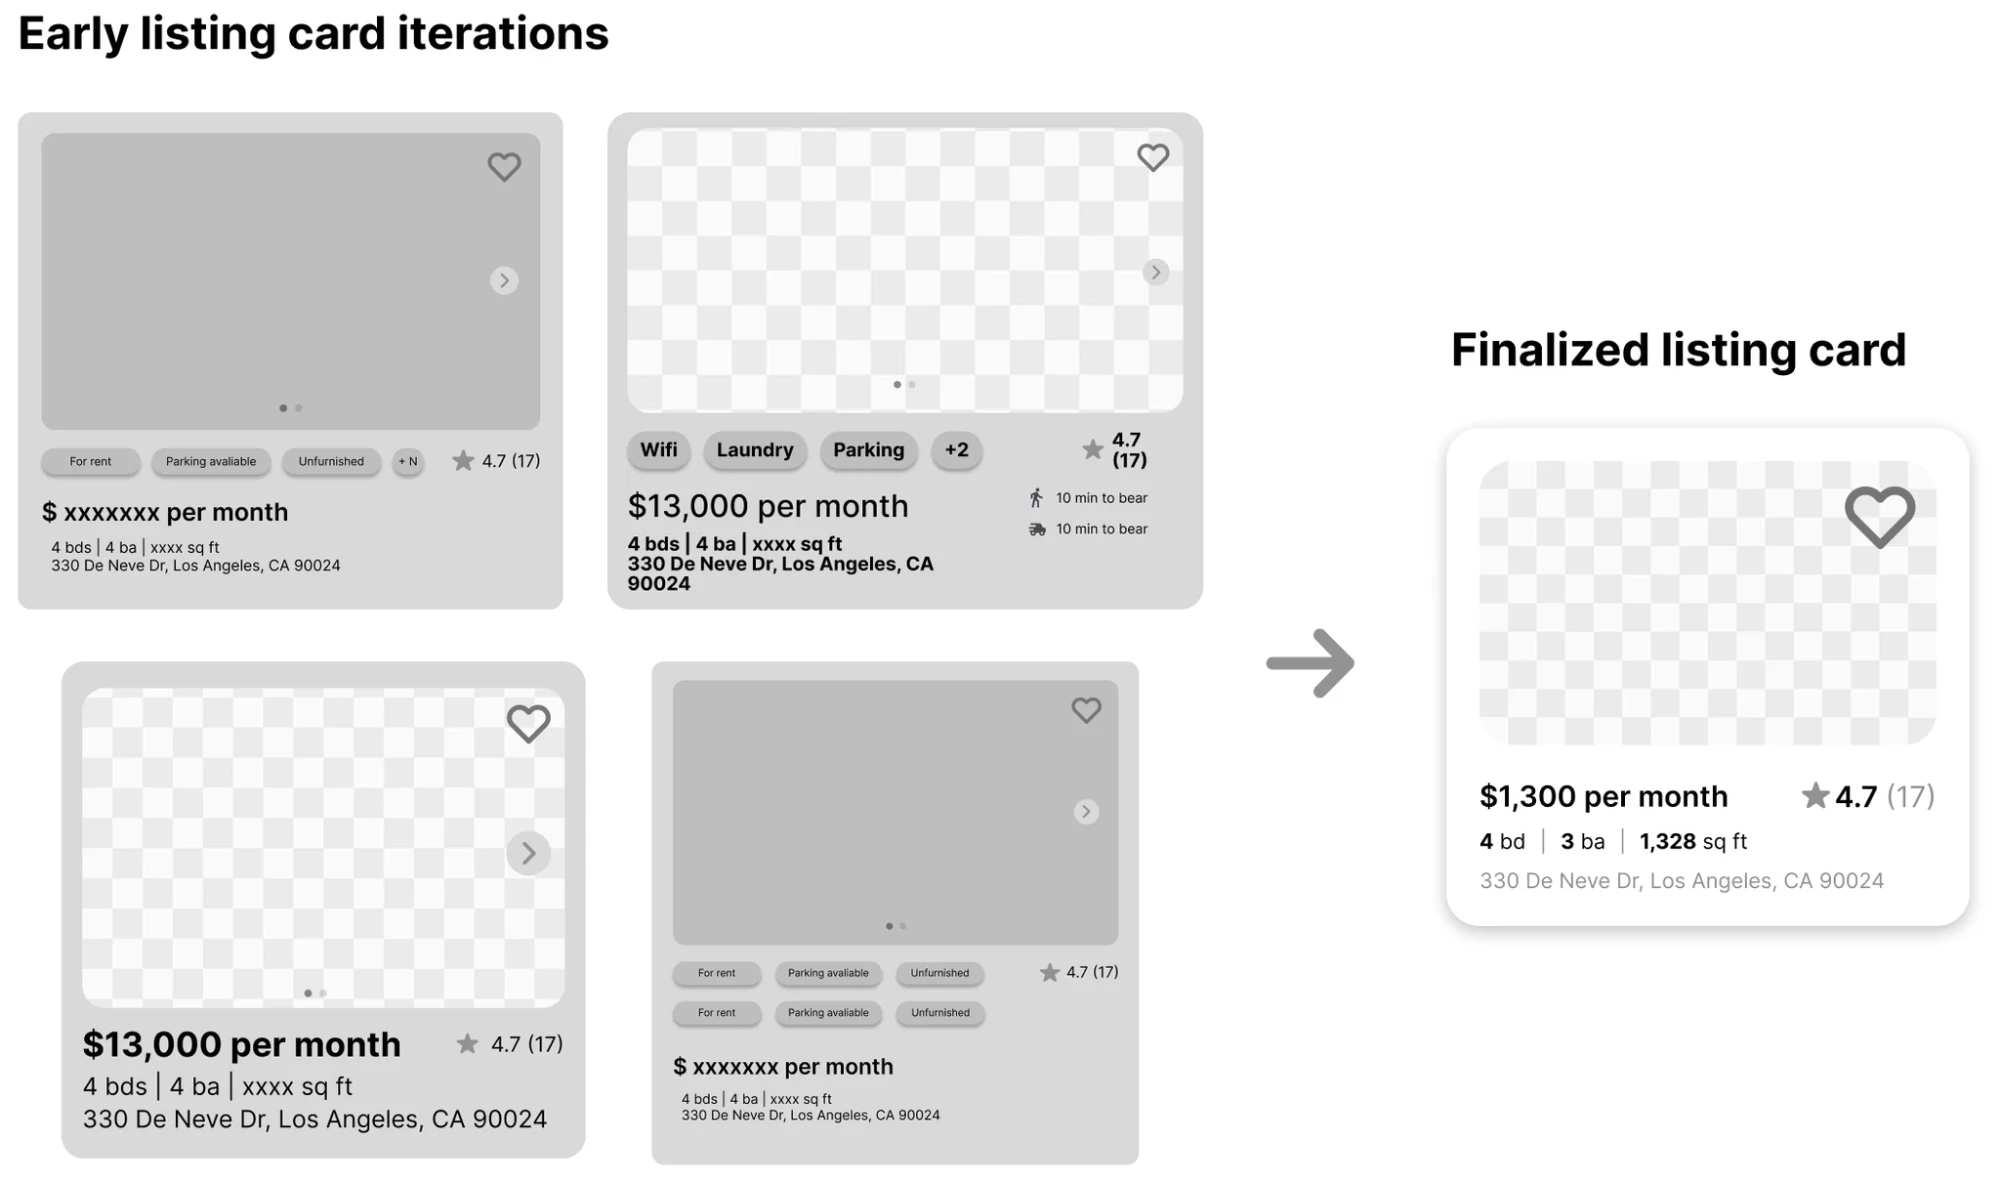
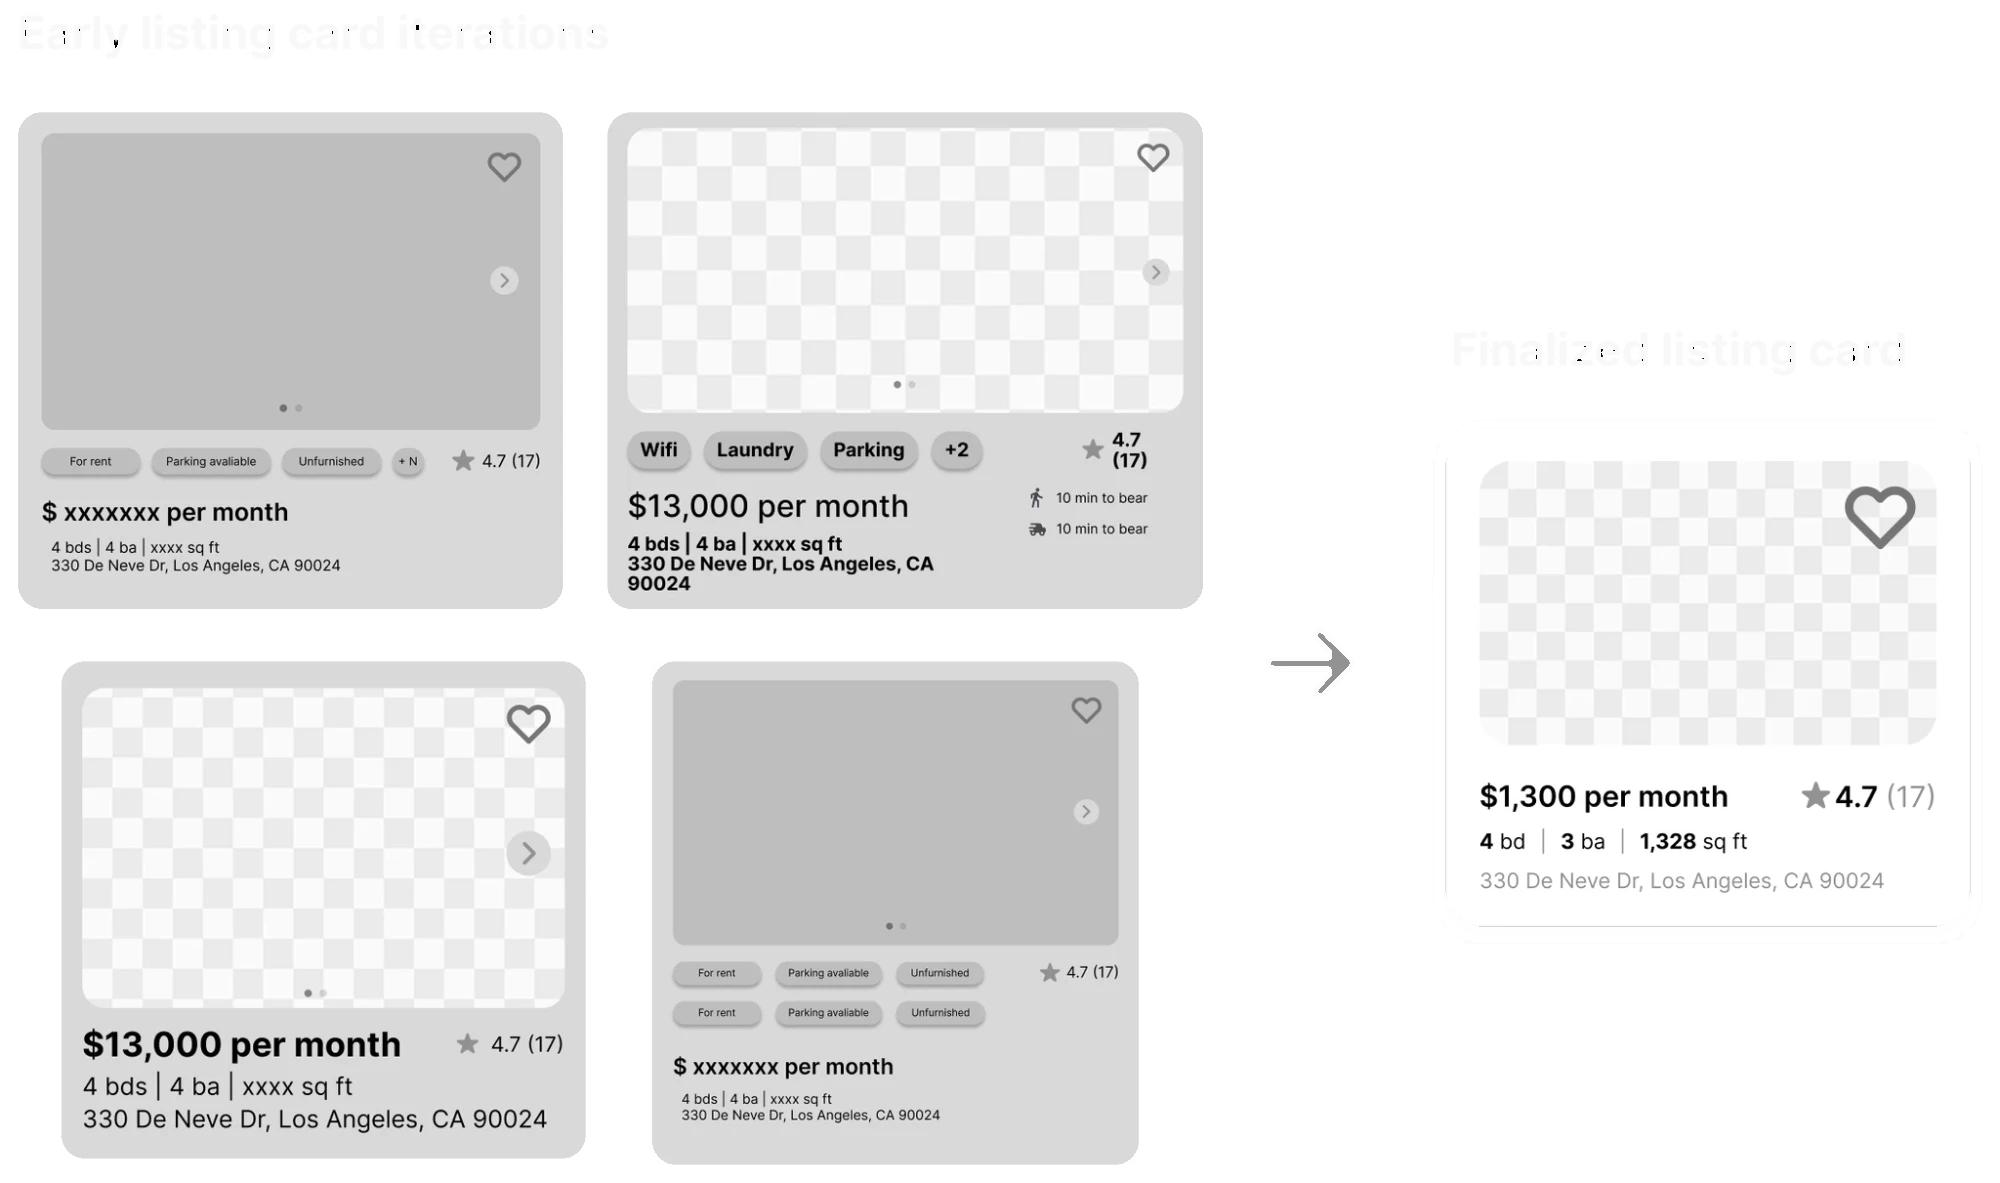
BruinPlace: card iterations and design system on the swirl, drop My Role

diff --git a/content/case-studies/bruinplace.ts b/content/case-studies/bruinplace.ts
@@ -125,17 +125,6 @@ export const bruinplace: CaseStudy = {
       ],
     },
     {
-      heading: "My Role",
-      blocks: [
-        {
-          kind: "prose",
-          paragraphs: [
-            "I designed search: the map, the filters, and the split-screen view that holds them together. Emily Ayson mapped the browse flow. Rachel Lee designed the listing cards.",
-          ],
-        },
-      ],
-    },
-    {
       heading: "Process",
       blocks: [
         {
